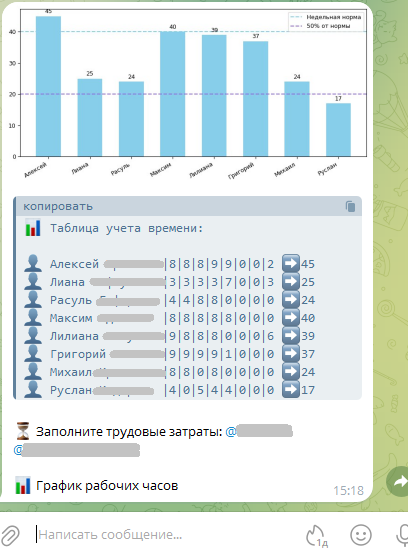
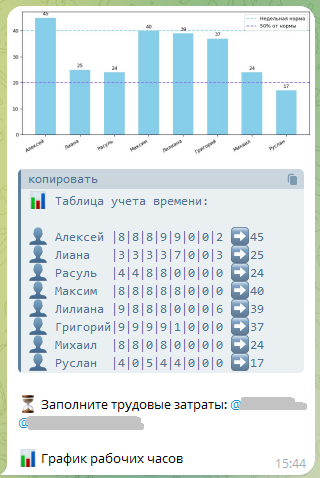
Removed last names

diff --git a/parser.py b/parser.py
@@ -45,11 +45,12 @@ def parse_time_entries(time_entries_html: str) -> dict[str, list[str]]:
 
 def _generate_report(work_hours: dict[str, list[str]]) -> str:
     report_message: str = "📊 Таблица учета времени:\n\n"
-    max_name_length: int = max(len(name) for name in work_hours.keys())
+    short_names = [name.split()[0] for name in work_hours.keys()]
+    max_name_length: int = max(len(name) for name in short_names)
     for name, hours in work_hours.items():
         formatted_hours: str = "|".join(hours[:-1])
         total: str = hours[-1]
-        name_padded: str = name.ljust(max_name_length)
+        name_padded: str = name.split()[0].ljust(max_name_length)
         report_message += f"👤 {name_padded}|{formatted_hours} ➡{total}\n"
     return f"<pre>{report_message}</pre>"
 
